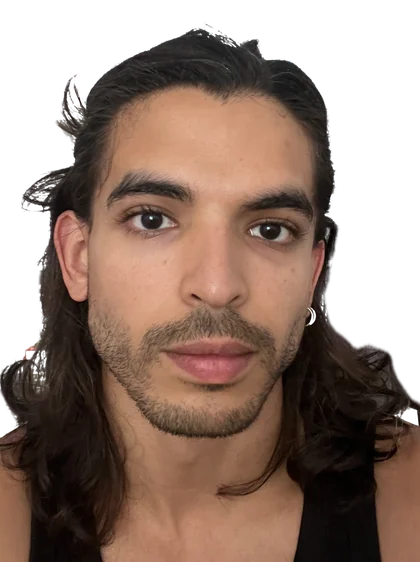
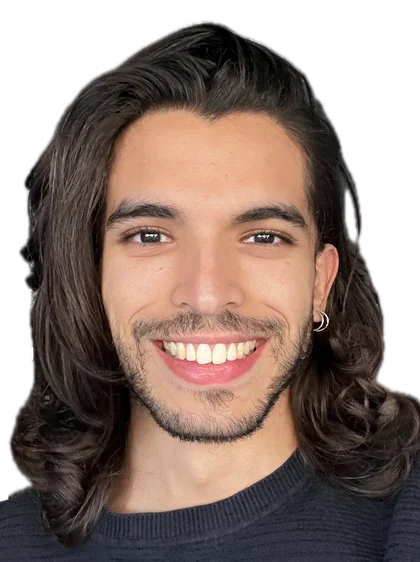
New portrait (smiling photo): same cut-out, jumper fluff removed, accent ring around it
- Portrait cut out locally and cleaned up; wall remnants removed at the edges only, to keep the highlights in the hair
- Clip inset 8 px from the disc: the voluminous hair lets a mango ring show
- photo.jpg (link preview): the new portrait on a dark background

diff --git a/fr/index.html b/fr/index.html
@@ -162,7 +162,7 @@ body.name-away .frame-status { opacity: 1; transform: none; }
 /* le portrait détouré sort de son disque : la tête dépasse par le haut, les épaules restent dans le cercle */
 .portrait { position: relative; width: 128px; height: 128px; margin-top: 46px; flex: none; }
 .portrait-disc { position: absolute; inset: 0; border-radius: 50%; background: radial-gradient(circle at 32% 26%, var(--accent-hi), var(--accent) 56%, var(--accent-deep)); }
-.portrait-img { position: absolute; left: 0; bottom: 0; width: 100%; height: auto; clip-path: inset(-60% 0 0 0 round 0 0 64px 64px); }
+.portrait-img { position: absolute; left: 0; bottom: 0; width: 100%; height: auto; clip-path: inset(-60% 8px 8px 8px round 0 0 56px 56px); }   /* 8 px en retrait : un anneau d'accent reste visible autour */
 .header-name-block { display: flex; flex-direction: column; min-width: 0; }
 .name {
   font-family: var(--display); font-weight: 400;
@@ -231,7 +231,7 @@ body.is-scrolled .scroll-hint { opacity: 0; }
 @media (max-width: 560px) {
   .header-left { grid-template-columns: 1fr; row-gap: 14px; }
   .portrait { width: 84px; height: 84px; margin-top: 28px; }
-  .portrait-img { clip-path: inset(-60% 0 0 0 round 0 0 42px 42px); }
+  .portrait-img { clip-path: inset(-60% 5px 5px 5px round 0 0 37px 37px); }
   .name { font-size: clamp(64px, 20vw, 96px); }
   .hero-foot { position: static; margin-top: 40px; }
 }
@@ -398,7 +398,7 @@ html.has-cursor, html.has-cursor * { cursor: none !important; }
   <header class="header">
     <div class="hero-stage" aria-hidden="true"><canvas class="hero3d"></canvas></div>
     <div class="header-left">
-      <div class="portrait"><span class="portrait-disc" aria-hidden="true"></span><img src="assets/portrait.webp?v=74ec5f6d" alt="Adam Ferreira" class="portrait-img" width="420" height="562" fetchpriority="high"></div>
+      <div class="portrait"><span class="portrait-disc" aria-hidden="true"></span><img src="assets/portrait.webp?v=caaf83e9" alt="Adam Ferreira" class="portrait-img" width="420" height="562" fetchpriority="high"></div>
       <div class="header-name-block">
         <h1 class="name"><span class="name-first">Adam</span> <span class="name-last">Ferreira</span></h1>
         <p class="subtitle">Software Engineer · Dev &amp; QA Automation</p>

diff --git a/index.html b/index.html
@@ -161,7 +161,7 @@ body.name-away .frame-status { opacity: 1; transform: none; }
 /* le portrait détouré sort de son disque : la tête dépasse par le haut, les épaules restent dans le cercle */
 .portrait { position: relative; width: 128px; height: 128px; margin-top: 46px; flex: none; }
 .portrait-disc { position: absolute; inset: 0; border-radius: 50%; background: radial-gradient(circle at 32% 26%, var(--accent-hi), var(--accent) 56%, var(--accent-deep)); }
-.portrait-img { position: absolute; left: 0; bottom: 0; width: 100%; height: auto; clip-path: inset(-60% 0 0 0 round 0 0 64px 64px); }
+.portrait-img { position: absolute; left: 0; bottom: 0; width: 100%; height: auto; clip-path: inset(-60% 8px 8px 8px round 0 0 56px 56px); }   /* 8 px en retrait : un anneau d'accent reste visible autour */
 .header-name-block { display: flex; flex-direction: column; min-width: 0; }
 .name {
   font-family: var(--display); font-weight: 400;
@@ -230,7 +230,7 @@ body.is-scrolled .scroll-hint { opacity: 0; }
 @media (max-width: 560px) {
   .header-left { grid-template-columns: 1fr; row-gap: 14px; }
   .portrait { width: 84px; height: 84px; margin-top: 28px; }
-  .portrait-img { clip-path: inset(-60% 0 0 0 round 0 0 42px 42px); }
+  .portrait-img { clip-path: inset(-60% 5px 5px 5px round 0 0 37px 37px); }
   .name { font-size: clamp(64px, 20vw, 96px); }
   .hero-foot { position: static; margin-top: 40px; }
 }
@@ -397,7 +397,7 @@ html.has-cursor, html.has-cursor * { cursor: none !important; }
   <header class="header">
     <div class="hero-stage" aria-hidden="true"><canvas class="hero3d"></canvas></div>
     <div class="header-left">
-      <div class="portrait"><span class="portrait-disc" aria-hidden="true"></span><img src="assets/portrait.webp?v=74ec5f6d" alt="Adam Ferreira" class="portrait-img" width="420" height="562" fetchpriority="high"></div>
+      <div class="portrait"><span class="portrait-disc" aria-hidden="true"></span><img src="assets/portrait.webp?v=caaf83e9" alt="Adam Ferreira" class="portrait-img" width="420" height="562" fetchpriority="high"></div>
       <div class="header-name-block">
         <h1 class="name"><span class="name-first">Adam</span> <span class="name-last">Ferreira</span></h1>
         <p class="subtitle">Software Engineer · Dev &amp; QA Automation</p>

diff --git a/assets/cv.css b/assets/cv.css
@@ -136,7 +136,7 @@ body.name-away .frame-status { opacity: 1; transform: none; }
 /* le portrait détouré sort de son disque : la tête dépasse par le haut, les épaules restent dans le cercle */
 .portrait { position: relative; width: 128px; height: 128px; margin-top: 46px; flex: none; }
 .portrait-disc { position: absolute; inset: 0; border-radius: 50%; background: radial-gradient(circle at 32% 26%, var(--accent-hi), var(--accent) 56%, var(--accent-deep)); }
-.portrait-img { position: absolute; left: 0; bottom: 0; width: 100%; height: auto; clip-path: inset(-60% 0 0 0 round 0 0 64px 64px); }
+.portrait-img { position: absolute; left: 0; bottom: 0; width: 100%; height: auto; clip-path: inset(-60% 8px 8px 8px round 0 0 56px 56px); }   /* 8 px en retrait : un anneau d'accent reste visible autour */
 .header-name-block { display: flex; flex-direction: column; min-width: 0; }
 .name {
   font-family: var(--display); font-weight: 400;
@@ -205,7 +205,7 @@ body.is-scrolled .scroll-hint { opacity: 0; }
 @media (max-width: 560px) {
   .header-left { grid-template-columns: 1fr; row-gap: 14px; }
   .portrait { width: 84px; height: 84px; margin-top: 28px; }
-  .portrait-img { clip-path: inset(-60% 0 0 0 round 0 0 42px 42px); }
+  .portrait-img { clip-path: inset(-60% 5px 5px 5px round 0 0 37px 37px); }
   .name { font-size: clamp(64px, 20vw, 96px); }
   .hero-foot { position: static; margin-top: 40px; }
 }
